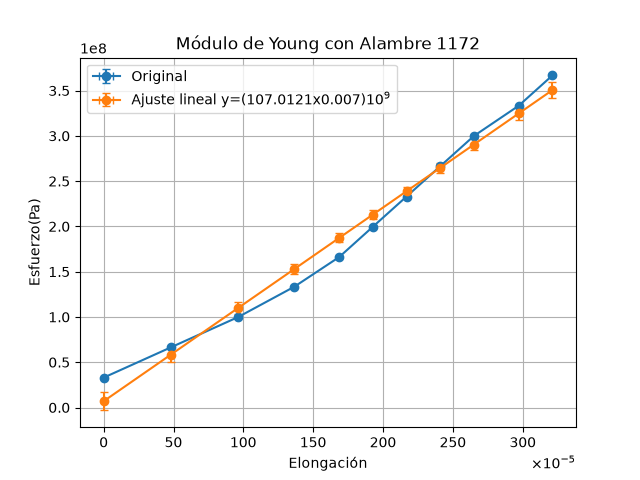
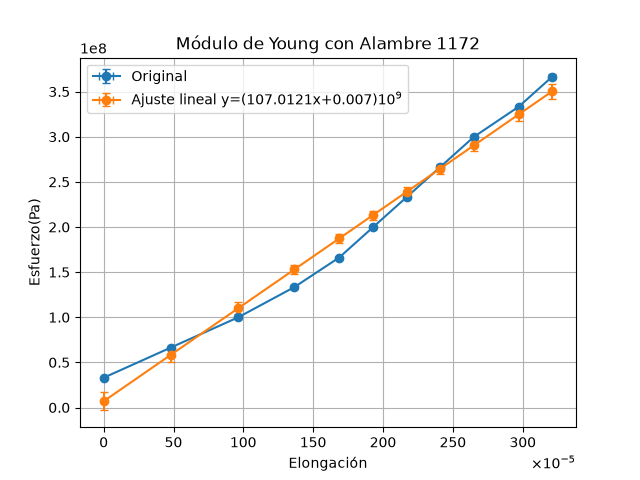
terminado

diff --git a/Laboratorio 8/Laboratorio 8.py b/Laboratorio 8/Laboratorio 8.py
@@ -55,7 +55,7 @@ def incertidumbres(alambre):
     # Incertidumbres
 
     inc_F=inc_m*g
-    inc_A=np.pi*(diametro/2)*inc_diametro
+    inc_A=2*np.pi*(diametro/2)*inc_diametro
 
     dElongdDelta=1/l_0
     dElongdl0=(-elong)/(l_0**2)
@@ -115,22 +115,44 @@ def incertidumbres(alambre):
 
     plt.figure()
     plt.errorbar(Elongaciones,Esfuerzos,xerr=inc_elongacion,yerr=inc_esfuerzo,fmt="o-",capsize=3,label="Original")
-    plt.errorbar(Elongaciones,youngajust,xerr=inc_elongacion,yerr=inc_yajuste,fmt="o-",capsize=3,label=f"Ajuste lineal y=({round(ModYoung*1e-9,4)}x{round(b*1e-9,4)})$10^9$")
+    if b>0:
+        plt.errorbar(Elongaciones,youngajust,xerr=inc_elongacion,yerr=inc_yajuste,fmt="o-",capsize=3,label=f"Ajuste lineal y=({round(ModYoung*1e-9,4)}x+{round(b*1e-9,4)})$10^9$")
+    else:
+        plt.errorbar(Elongaciones,youngajust,xerr=inc_elongacion,yerr=inc_yajuste,fmt="o-",capsize=3,label=f"Ajuste lineal y=({round(ModYoung*1e-9,4)}x{round(b*1e-9,4)})$10^9$")
     plt.title(f"Módulo de Young con {nombre}")
     plt.xlabel("Elongación")
     plt.ylabel("Esfuerzo(Pa)")
     plt.grid(True)
     plt.legend()
     plt.ticklabel_format(axis='x', style='sci', scilimits=(-5, -5), useMathText=True)
-    plt.show()
+    #plt.show()
 
     # Cálculo Teórico
 
     denslin=m_alamb/longitud
 
+    dDenslindm=1/longitud
+    dDenslindl=(-m_alamb)/(longitud**2)
+
+    inc_denslin=np.sqrt((dDenslindm*inc_m)**2+(dDenslindl*inc_reg)**2)
+
     f1=(1/(2*longitud))*np.sqrt(F/denslin)
 
-    youngteorico=(4*(longitud**2)*(f1**2)*denslin)/(atransv*Elongaciones)
+    df1dl=(-1/(2*(longitud**2)))*np.sqrt(F/denslin)
+    df1dF=1/(4*longitud*np.sqrt(F*denslin))
+    df1dDenslin=(-np.sqrt(F))/(4*longitud*(np.power(denslin,3/2)))
+
+    inc_f1=np.sqrt((df1dl*inc_reg)**2+(df1dF*inc_F)**2+(df1dDenslin*inc_denslin)**2)
+
+    Yf=(4*(longitud**2)*(f1**2)*denslin)/(atransv*Elongaciones)
+
+    dYfdl=(8*longitud*(f1**2)*denslin)/(atransv*Elongaciones)
+    dYfdf1=(8*(longitud**2)*f1*denslin)/(atransv*Elongaciones)
+    dYfdDenslin=(4*(longitud**2)*(f1**2))/(atransv*Elongaciones)
+    dYfdA=(-4*(longitud**2)*(f1**2)*denslin)/((atransv**2)*Elongaciones)
+    dYfdElong=(-4*(longitud**2)*(f1**2)*denslin)/((atransv)*(Elongaciones**2))
+
+    inc_Yf=np.sqrt((dYfdl*inc_reg)**2+(dYfdf1*inc_f1)**2+(dYfdDenslin*inc_denslin)**2+(dYfdA*inc_A)**2+(dYfdElong*inc_elongacion)**2)
 
     return print(
                 f'{nombre}:',
@@ -139,7 +161,7 @@ def incertidumbres(alambre):
                 f'Esfuerzos:{Esfuerzos}±{inc_esfuerzo}',
                 f'r^2={round(r2,4)}',
                 f'Módulo de Young=({round(ModYoung*1e-9,4)}±{round(Inc_Young*1e-9,4)})GPa',
-                f'Módulo de Young por frecuencia: {round(youngteorico[-5]*1e-9,4)}GPa',
+                f'Módulo de Young por frecuencia: {round(Yf[-5]*1e-9,4)}±{round(inc_Yf[-5]*1e-9,4)}GPa',
                 f'Ecuación de la recta: (y={ModYoung*1e-9}x+({b*1e-9}))10^9'
                 )
 
